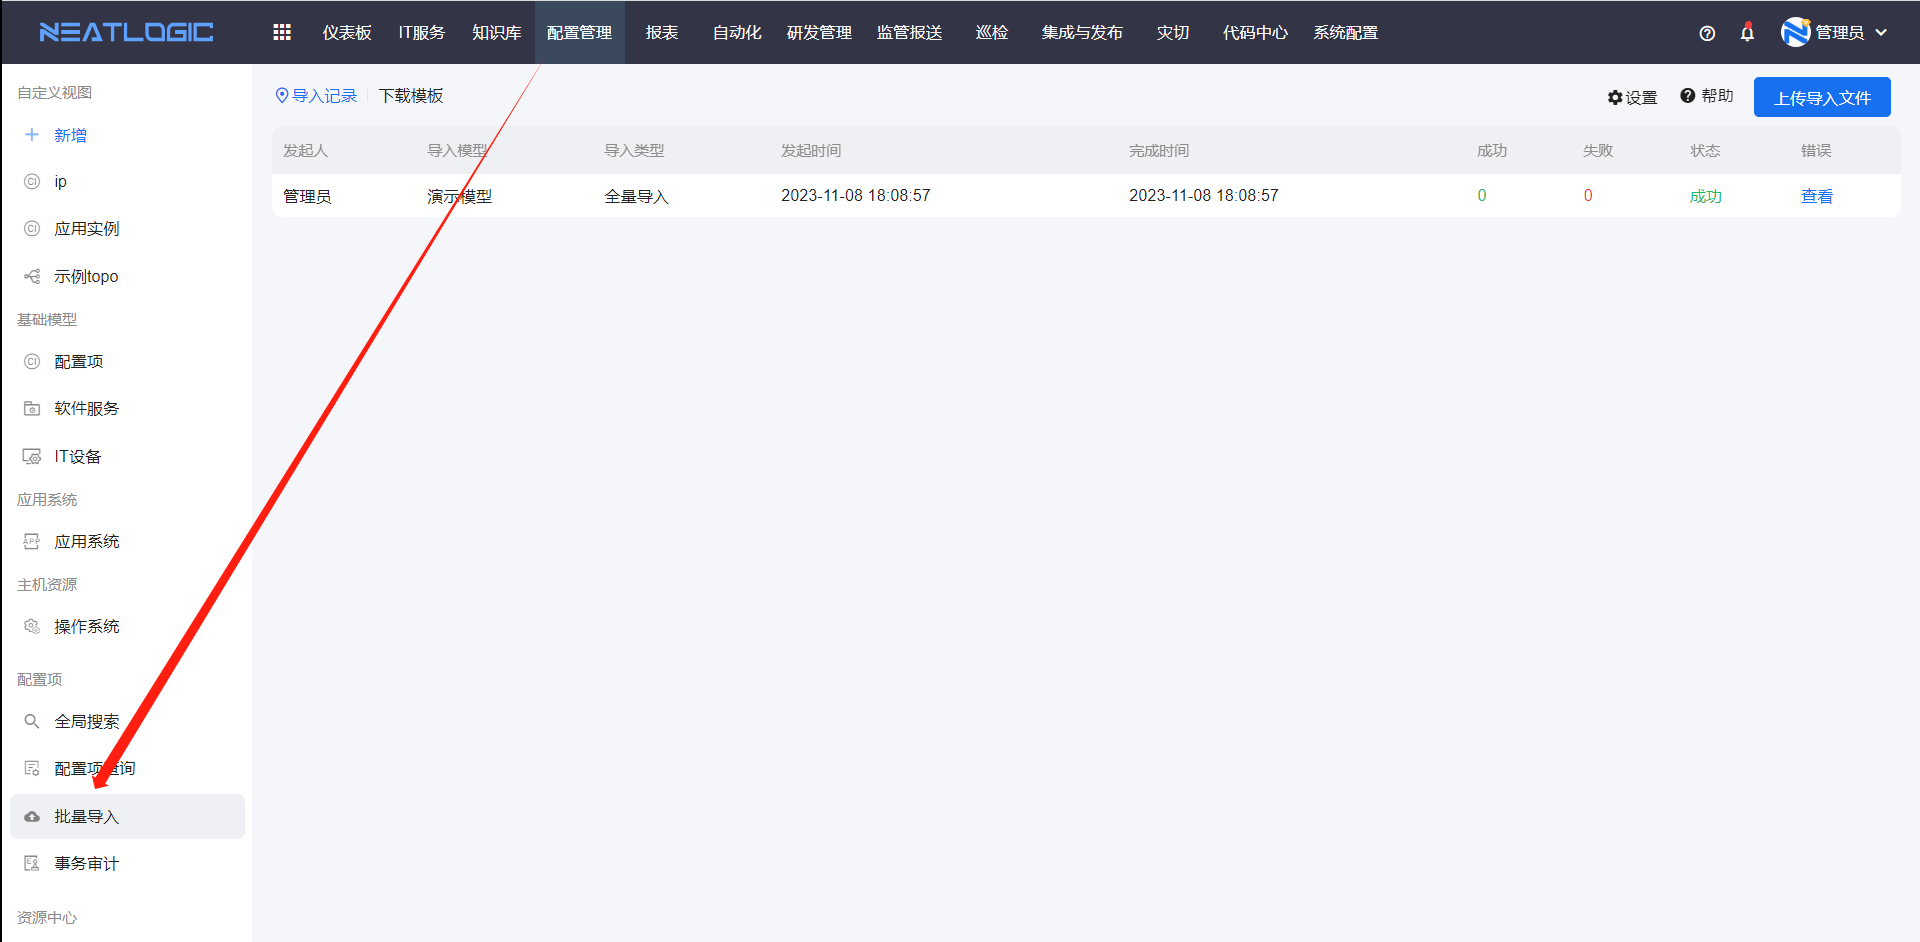
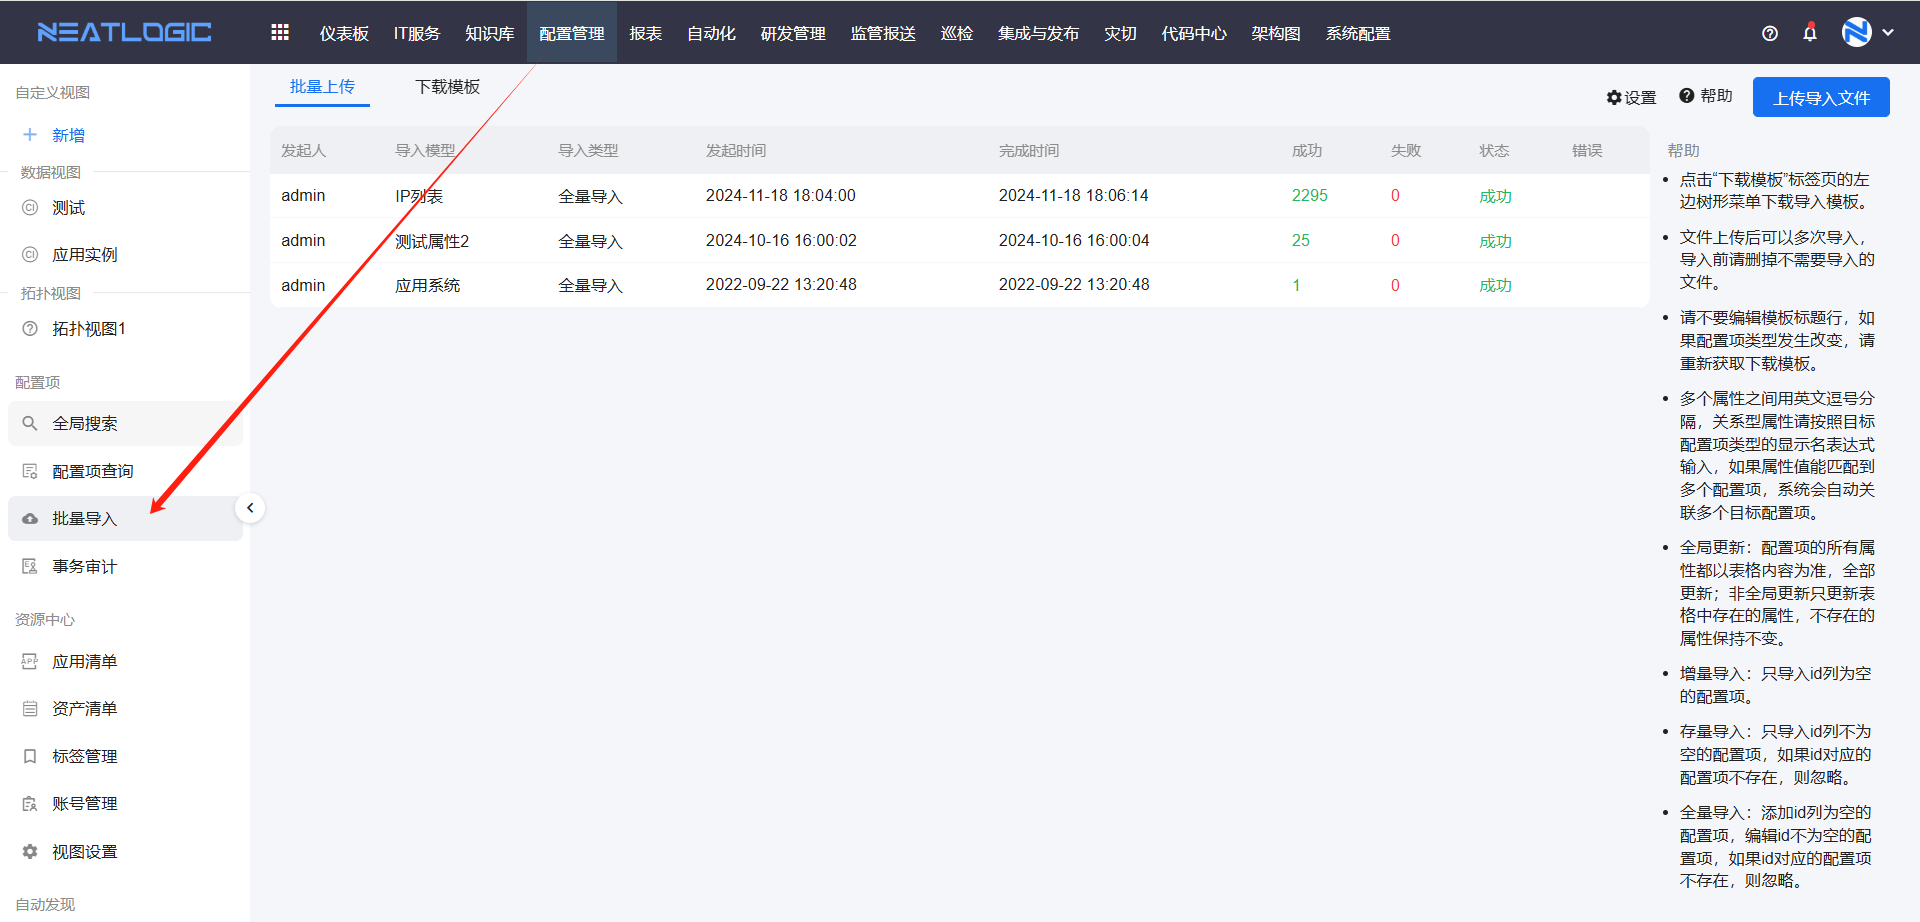
更新配置模型和采集说明文档

diff --git a/src/main/resources/neatlogic/resources/documentonline/zh/3.配置管理/配置项查询/配置项查询.md b/src/main/resources/neatlogic/resources/documentonline/zh/3.配置管理/配置项查询/配置项查询.md
@@ -1,14 +1,10 @@
 # 配置项查询
+配置项查询支持对模型的配置项进行添加、编辑、删除、搜索和导出等操作。
 
 ## 名称解释
-* 配置项：CI（Configuration Item），一个配置项代表一个资源或一个物件。例如：一个应用、一个集群、一个中间件实例、一个主机。一个配置项具有配置模型定义的属性和关系。
-* 事务：CI Transaction（Configuration Item Transaction），配置项增删改操作都可以产生操作事务，其目的是保证配置项的数据有效、准确性。例如：变更中存在变更成功和变更失败，变更成功提交事务，显示变更以后的结构，当变更失败以变更之前的数据展示，从而保证数据的有效性。
+配置项：CI（Configuration Item），一个配置项代表一个资源或一个物件。例如：一个应用、一个集群、一个中间件实例、一个主机。一个配置项具有配置模型定义的属性和关系。
 
-## 管理页
-配置项管理页支持按条件搜索目标模型，还可切换到拓扑图查看模型关系。页面入口如图所示。
-![](images/配置项查询_入口.gif)
-在管理页，查询目标模型，点击模型卡片，页面跳转到配置项列表页面；
-![](images/配置项查询_配置项列表.gif)
+事务：CI Transaction（Configuration Item Transaction），配置项增删改操作都可以产生操作事务，其目的是保证配置项的数据有效、准确性。例如：变更中存在变更成功和变更失败，变更成功提交事务，显示变更以后的结构，当变更失败以变更之前的数据展示，从而保证数据的有效性。
 
 ## 权限说明
 配置项查询相关的权限要从两个维度来说明，分别是页面入口和数据权限。
@@ -26,6 +22,12 @@
 
    注意：用户要在没有1和2中的权限的情况下，团体中对配置项数据过滤的效果才能生效。
    ![](images/配置项查询_权限说明_3.png)
+
+## 管理页
+配置项管理页支持按条件搜索目标模型，还可切换到拓扑图查看模型关系。页面入口如图所示。
+![](images/配置项查询_入口.gif)
+在管理页，查询目标模型，点击模型卡片，页面跳转到配置项列表页面；
+![](images/配置项查询_配置项列表.gif)
 
 ## 配置项列表
 配置项列表的功能主要包括配置项和事务的新增、删除、编辑和查询，只有普通模型可进行配置项增删改的操作（模型名称下方未标记抽象模型或者虚拟模型的模型就是普通模型）。
@@ -46,4 +48,4 @@
 * 切换到拓扑图模式，查看配置项的上下游关联关系
 ![](images/配置项查询_配置项详情_拓扑图.png)
 * 按属性分组查看配置属性数据
-  ![](images/配置项查询_配置项详情_属性分组.png)s
+  ![](images/配置项查询_配置项详情_属性分组.png)

diff --git a/src/main/resources/neatlogic/resources/documentonline/zh/3.配置管理/数据采集/3.网络设备采集&巡检.md b/src/main/resources/neatlogic/resources/documentonline/zh/3.配置管理/数据采集/3.网络设备采集&巡检.md
@@ -93,13 +93,12 @@
 </table>
 
 
-# 编排工具和插件
+# 组合工具和采集工具
 网络设备类采集以snmp协议为主，待采集的设备必须开启snmp服务和设置采集执行节点IP白名单策略。
-采集插件分为基础采集插件和特定类型厂商采集插件，基础采集插件定义公共的OID，各类厂商插件继承公共采集插件可以重载和重写基础采集采集的OID，
-针对同一个属性采集数据，支持定义多个OID。
+采集工具分为基础采集工具和特定类型厂商采集工具，基础采集工具定义公共的OID，各类厂商插件继承公共采集工具可以重载和重写基础采集采集的OID，针对同一个属性采集数据，支持定义多个OID。
 
 <b>说明：</b>
-* 此处只枚举一个案例，更多同类插件和使用参见[工具库](../../5.自动化/工具库/工具库.md)的插件帮助和说明。
+* 此处只枚举一个案例，更多同类工具和使用参见[工具库](../../5.自动化/工具库/工具库.md)的工具帮助和说明。
 * 网络设备采集和巡检在[资产清单](../资源中心/资产清单.md)中不同的网络设备资产配置统一用户，如inspect，简化组合工具的入参配置。
 > 注意：<br>
 > 先到neatlogic-runner所在服务器测试能不能通过snmpwalk获取网络设备信息
@@ -112,12 +111,12 @@
 > 再到[资产清单](../资源中心/资产清单.md)对应的网络设备配置好账号，密码需要填入团体字
 
 ## 网络设备类组合工具示例
-采集插件和把采集的数据归档到DB
+采集工具把采集的数据归档到DB，组合工具的配置详情参考 [组合工具](../../5.自动化/组合工具/组合工具.md) 文档。
 ![img.png](images/3.swtich_collect_comb.png)
 计算采集数据关系
 ![img.png](images/3.swtich_collect_backfillrel.png)
 
-## 采集插件参数详解
+## 采集的执行目标参数详解
 ![img.png](images/3.switch_collect_comb_param.png)
 
 ## 采集数据同步到配置管理

diff --git a/src/main/resources/neatlogic/resources/documentonline/zh/3.配置管理/数据采集/4.虚拟化平台采集.md b/src/main/resources/neatlogic/resources/documentonline/zh/3.配置管理/数据采集/4.虚拟化平台采集.md
@@ -33,20 +33,19 @@
 </tbody>
 </table>
 
-# 编排工具和插件
-虚拟化采集可以是以runner或runner_target[执行方式](../../5.自动化/组合工具/组合工具.md)，基于虚拟化平台提供的SDK
-或API方式抓取和采集数据。
+# 组合工具和采集工具
+虚拟化采集可以是以runner或runner_target执行方式，基于虚拟化平台提供的SDK或API方式抓取和采集数据。
 
-<b>说明：</b>此处只枚举一个案例，更多同类插件和使用参见[工具库](../../5.自动化/工具库/工具库.md)的插件帮助和说明。
+<b>说明：</b>此处只枚举一个案例，更多同类工具和使用参见[工具库](../../5.自动化/工具库/工具库.md)的工具帮助和说明。
 
 ## 虚拟化Vcenter采集组合工具示例
-虚拟化采集插件和采集的数据归档到MongoDB
+虚拟化采集工具和采集的数据归档到MongoDB，详情参考 [组合工具](../../5.自动化/组合工具/组合工具.md)、[工具库](../../5.自动化/工具库/工具库.md)文档。
 ![img.png](images/4.vc_collect_comb.png)
 计算采集数据关系
 ![img.png](images/4.vc_collect_backfillrel.png)
 
 ## 采集目标和节点范围
-虚拟化采集以配置模型内的虚拟化数据为执行节点，插件执行时自动获取节点的IP、端口、以及用户和密码。
+虚拟化采集以配置模型内的虚拟化数据为执行节点，插件执行时自动获取节点的IP、端口、以及用户和密码，配置详情参考 [组合工具](../../5.自动化/组合工具/组合工具.md)文档。
 ![img.png](images/4.vc_collect_param.png)
 
 ## 采集数据同步到配置管理

diff --git a/src/main/resources/neatlogic/resources/documentonline/zh/3.配置管理/数据采集/5.容器云平台采集.md b/src/main/resources/neatlogic/resources/documentonline/zh/3.配置管理/数据采集/5.容器云平台采集.md
@@ -21,15 +21,15 @@
 </tbody>
 </table>
 
-# 编排工具和插件
-k8s采集插件是调用k8s的API进行数据采集和关系计算。
+# 组合工具和采集工具
+k8s采集工具是调用k8s的API进行数据采集和关系计算。
 
 ## 采集组合工具示例
-虚拟化采集插件和把采集的数据归档到DB
+虚拟化采集工具和把采集的数据归档到DB，配置详情参考 [组合工具](../../5.自动化/组合工具/组合工具.md)、[工具库](../../5.自动化/工具库/工具库.md)文档。
 ![img.png](images/5.k8s_collect_comb.png)
 
 ## 采集目标和节点范围
-容器采集以配置模型内的容器数据为执行节点，插件执行时自动获取节点的IP、端口、以及用户和密码。
+容器采集以配置模型内的容器数据为执行节点，工具执行时自动获取节点的IP、端口、以及用户和密码，配置详情参考 [组合工具](../../5.自动化/组合工具/组合工具.md)文档。
 ![img.png](images/5.k8s_collect_comb_param.png)
 
 ## 采集数据同步到配置管理

diff --git a/src/main/resources/neatlogic/resources/documentonline/zh/3.配置管理/数据采集/2.操作系统采集.md b/src/main/resources/neatlogic/resources/documentonline/zh/3.配置管理/数据采集/2.操作系统采集.md
@@ -247,7 +247,8 @@ Tagent服务安装、部署、使用详细参考[Tagent服务](../../5.自动化
 </tbody>
 </table>
 
-# 编排工具和插件
+# 组合工具和采集工具
+组合工具的配置详情参考 [组合工具](../../5.自动化/组合工具/组合工具.md)、[工具库](../../5.自动化/工具库/工具库.md)文档。
 
 ## os采集通用组合工具示例
 os采集插件和采集的数据归档到MongoDB插件
@@ -309,7 +310,7 @@ os采集插件和采集的数据归档到MongoDB插件
 </table>
 
 ## os采集目标和节点范围
-一般情况下批量采集或定时执行采集，建议以配置模型数据、或标签（Aix、Linux、Windows）节点数据作为执行目标。
+一般情况下批量采集或定时执行采集，建议以配置模型数据、或标签（Aix、Linux、Windows）节点数据作为[执行目标](../../5.自动化/组合工具/组合工具.md)。
 
 ![img.png](images/1.os_collect_runnertarget.png)
 

diff --git a/src/main/resources/neatlogic/resources/documentonline/zh/3.配置管理/模型管理/模型管理.md b/src/main/resources/neatlogic/resources/documentonline/zh/3.配置管理/模型管理/模型管理.md
@@ -1,4 +1,10 @@
 # 模型管理
+模型管理管理的是配置项的模型，模型管理页是按照层级分类展示配置项模型，右侧又层级导航列表，辅助用户快速定位到选中的层级。
+![](images/模型管理.png)
+
+相关权限：系统配置-权限管理-配置项模型管理权限。
+![](images/模型管理权限.png)
+
 ## 名词解释
 * 抽象模型：抽象模型主要用于继承，代表一类实体，用于管理公共属性，也可以用于组成拓扑图的骨干网络。例如应用实例是一个抽象模型，泛指所有应用进程，可以分别创建java实例、nginx实例、tomcat实例、weblogic实例等“普通模型”来继承它。抽象模型会汇总所有继承该模型的模型配置项数据。
   ![](images/模型管理_抽象模型.gif)

diff --git a/src/main/resources/neatlogic/resources/documentonline/zh/3.配置管理/批量导入/批量导入.md b/src/main/resources/neatlogic/resources/documentonline/zh/3.配置管理/批量导入/批量导入.md
@@ -1,5 +1,7 @@
 # 批量导入
 批量导入是为了满足批量将配置项数据导入到同一个模型，添加的方式有只添加、只更新和添加并更新，属性数据更新的方式包括全局更新和非全局更新。
+
+点击帮助图标查看导入的帮助说明。
 ![](images/批量导入.png)
 批量导入的步骤：下载模板-填写模板数据-导入模板并添加数据
 
